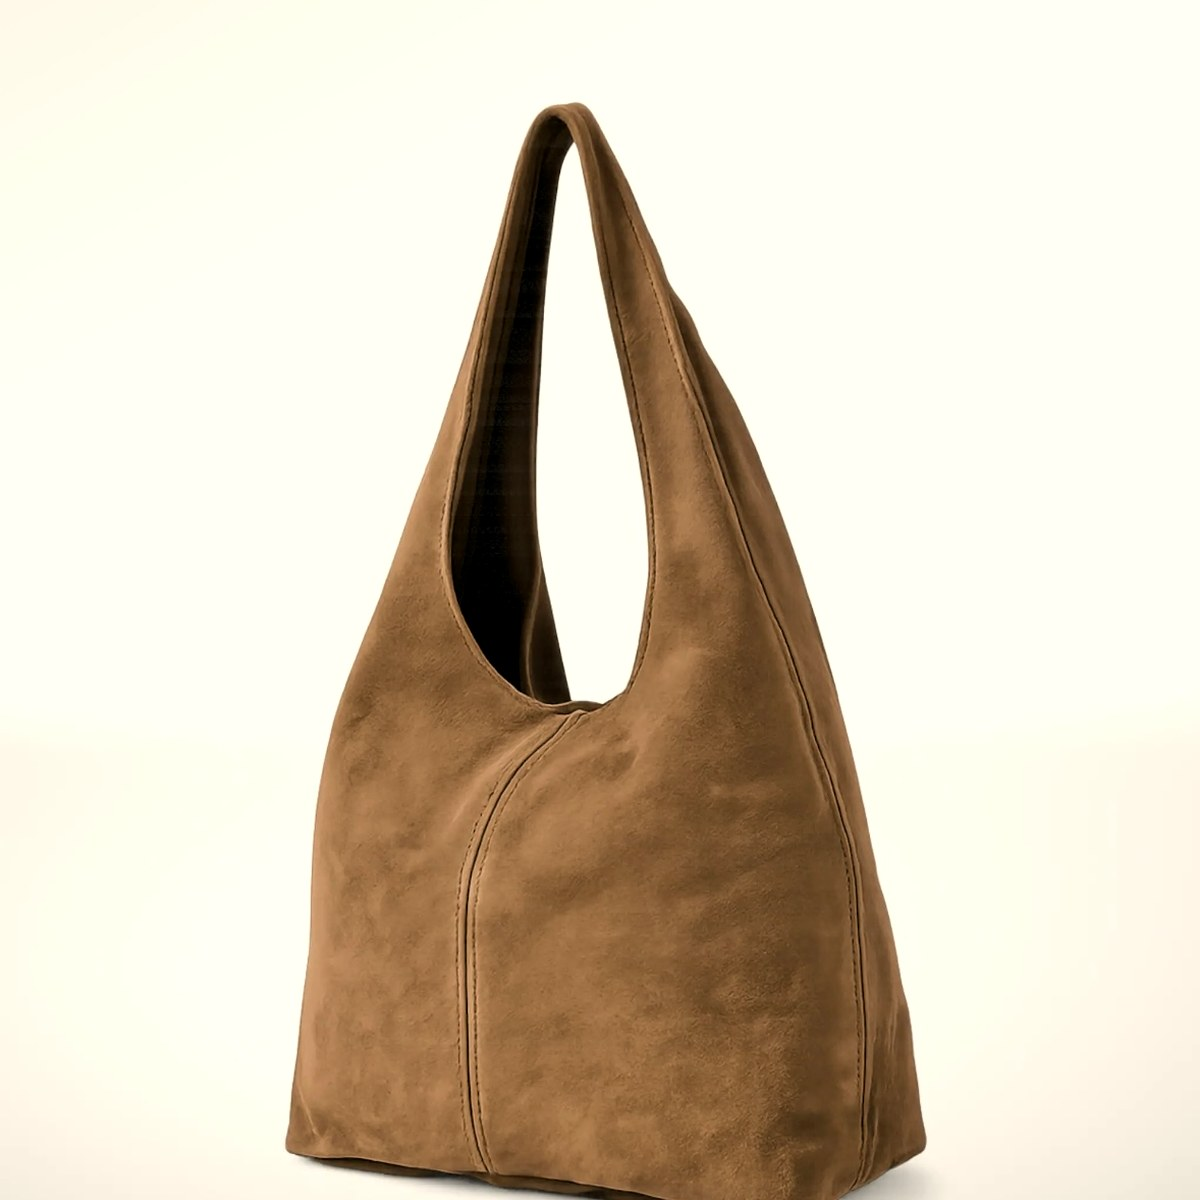
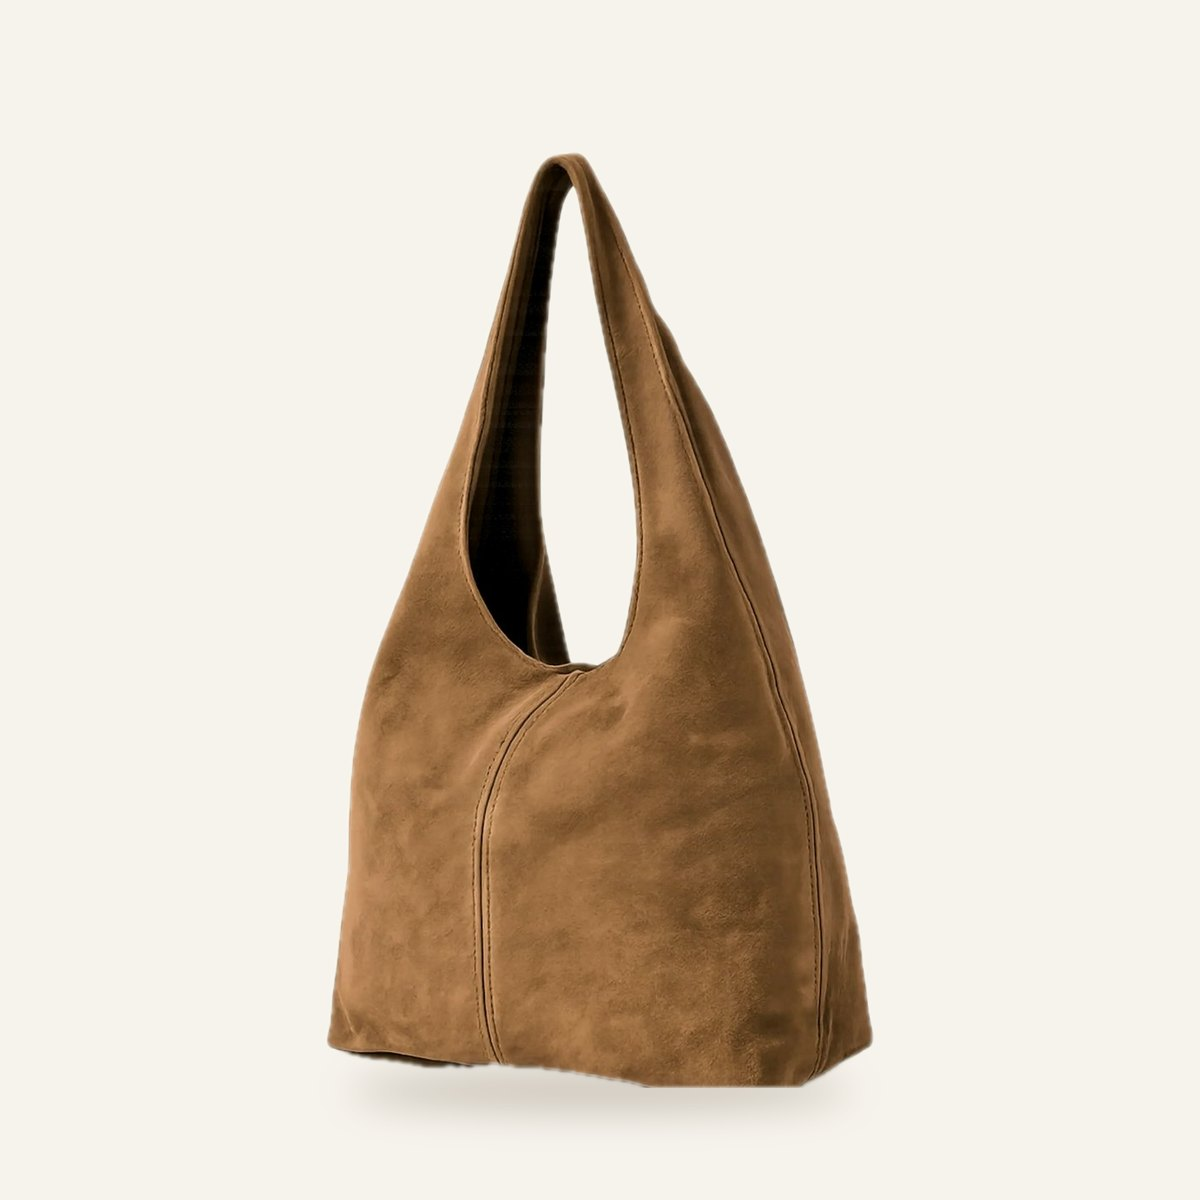
Bag photos: cut out and placed on page cream for a seamless grid
Subjects lifted with Apple Vision, centered at a consistent size with a soft floor shadow.

Changed region(s): [[0.2158, 0.0617, 0.7708, 1.0], [0.555, 0.74, 0.5858, 0.7708]]

diff --git a/index.html b/index.html
@@ -94,7 +94,7 @@
   .section-head p { color: var(--ink-soft); max-width: 380px; font-size: 15px; }
   .grid { display: grid; grid-template-columns: repeat(3, 1fr); gap: 40px 28px; }
   .bag { cursor: zoom-in; }
-  .bag .frame { position: relative; aspect-ratio: 1 / 1; background: var(--cream-deep); overflow: hidden; }
+  .bag .frame { position: relative; aspect-ratio: 1 / 1; background: var(--cream); overflow: hidden; }
   .bag img { width: 100%; height: 100%; object-fit: cover; transition: transform .6s ease; }
   .bag:hover img { transform: scale(1.04); }
   .bag .num { position: absolute; top: 14px; left: 14px; font-family: var(--serif); font-style: italic; font-size: 20px; color: var(--ink); background: rgba(246,243,236,.85); padding: 2px 10px; }
@@ -253,7 +253,7 @@
 
   BAGS.forEach((bag, i) => {
     const n = pad(i + 1);
-    bag.src = `photos/bag-${n}.jpg`;
+    bag.src = `photos/bag-${n}.jpg?v=cream`;
     const el = document.createElement("article");
     el.className = bag.sold ? "bag sold" : "bag";
     el.innerHTML = `
